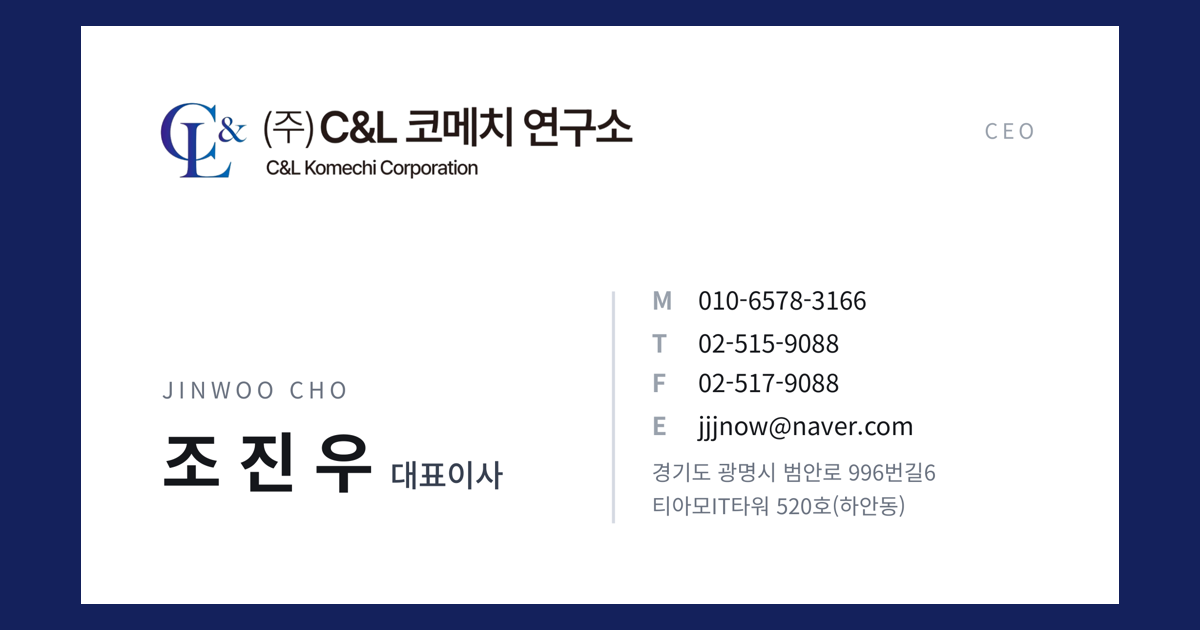
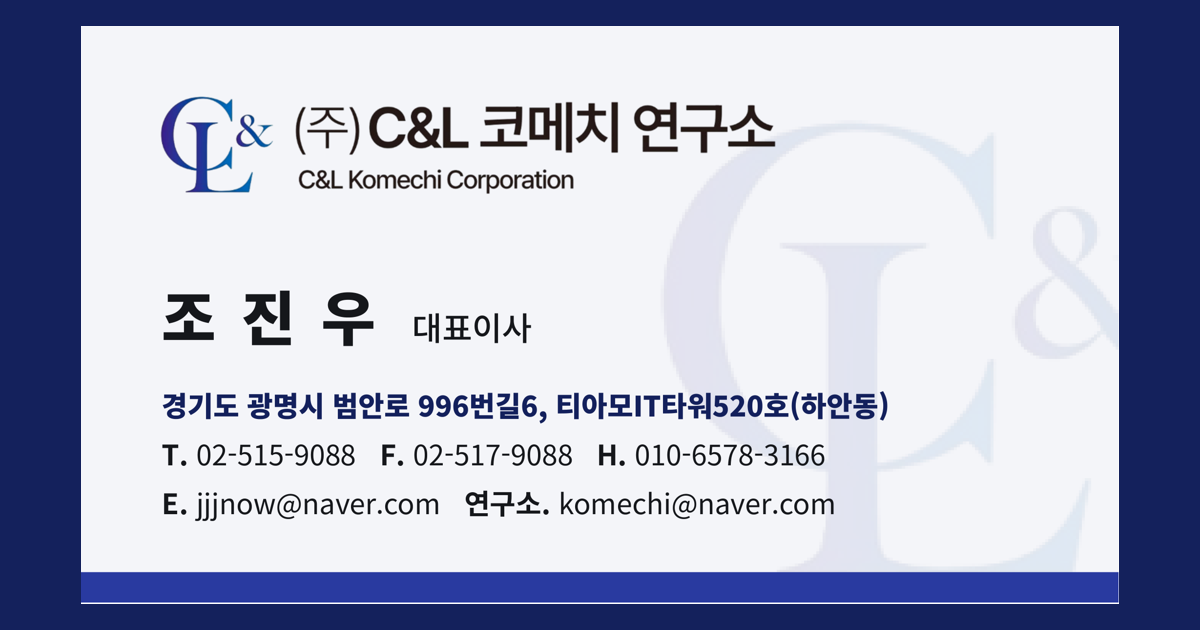
대표이사 전자명함 미리보기 이미지를 기존 명함으로 변경

diff --git a/content/cards/cho.html b/content/cards/cho.html
@@ -1,5 +1,5 @@
 <!doctype html><html lang="ko"><head><meta charset="utf-8"><meta name="viewport" content="width=device-width,initial-scale=1">
-<meta name="robots" content="noindex"><title>조진우 대표이사 | (주)C&amp;L 코메치 연구소</title><meta property="og:type" content="profile"><meta property="og:title" content="조진우 대표이사 | (주)C&amp;L 코메치 연구소"><meta property="og:description" content="친환경 무기질 세라믹 코팅 솔루션 | 눌러서 연락처 보기·저장"><meta name="description" content="친환경 무기질 세라믹 코팅 솔루션 | 눌러서 연락처 보기·저장"><meta property="og:image" content="https://www.komechi.co.kr/card/cho.png"><meta property="og:image:width" content="1200"><meta property="og:image:height" content="630"><meta property="og:url" content="https://www.komechi.co.kr/card/cho"><meta name="twitter:card" content="summary_large_image"></head>
+<meta name="robots" content="noindex"><title>조진우 대표이사 | (주)C&amp;L 코메치 연구소</title><meta property="og:type" content="profile"><meta property="og:title" content="조진우 대표이사 | (주)C&amp;L 코메치 연구소"><meta property="og:description" content="친환경 무기질 세라믹 코팅 솔루션 | 눌러서 연락처 보기·저장"><meta name="description" content="친환경 무기질 세라믹 코팅 솔루션 | 눌러서 연락처 보기·저장"><meta property="og:image" content="https://www.komechi.co.kr/card/cho.png?v=2"><meta property="og:image:width" content="1200"><meta property="og:image:height" content="630"><meta property="og:url" content="https://www.komechi.co.kr/card/cho"><meta name="twitter:card" content="summary_large_image"></head>
 <body style="margin:0;background:#eef1f6;font-family:'Noto Sans KR','Apple SD Gothic Neo','Malgun Gothic',sans-serif;color:#15171c">
 <div style="max-width:440px;margin:0 auto;min-height:100vh;background:#fff">
   <div style="background:#14215c;color:#fff;padding:34px 24px 28px">
